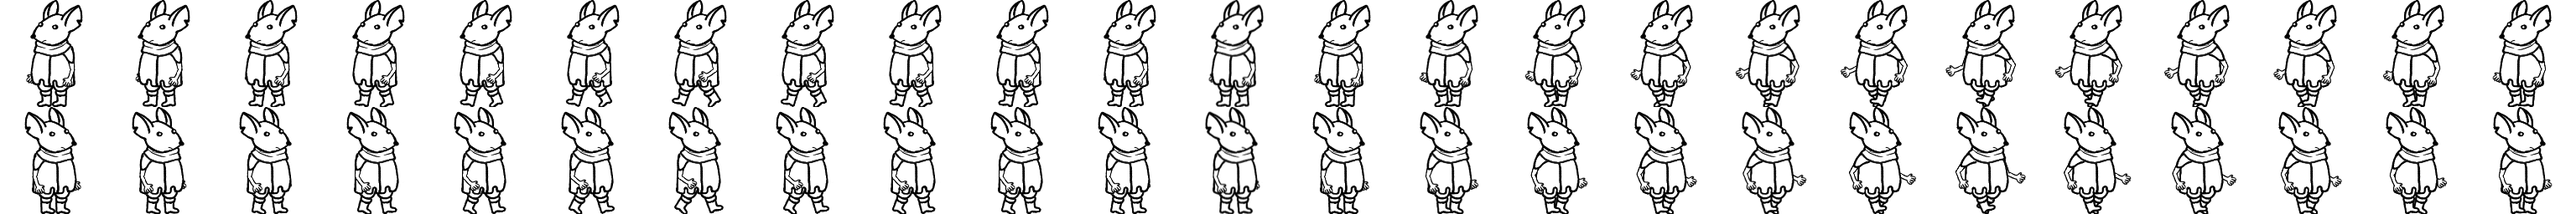
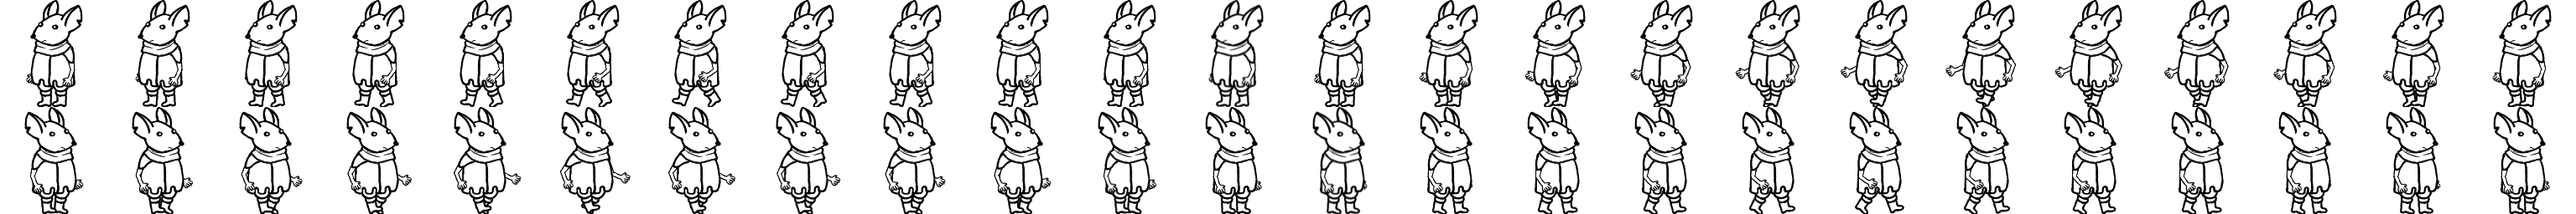
Directional animation is now first row is left and next row is right animation

diff --git a/GameProject/ECS/Systems/AnimationSystem.cpp b/GameProject/ECS/Systems/AnimationSystem.cpp
@@ -53,11 +53,11 @@ void AnimationSystem::update(sf::Time deltaTime)
 
 					SpriteOrientationComponent* orientComp = m_entityContainer->getComponent<SpriteOrientationComponent>(entity, typeName<SpriteOrientationComponent>());
 
-					int directionSign = 0;
+					int row = currentAnim.row;
 					if (orientComp->orientation() == SpriteOrientation::right)
-						directionSign = 1;
+						row++;
 
-					sf::IntRect frame(currentAnim.currentFrame * size.x, directionSign * size.y, size.x, size.y);
+					sf::IntRect frame(currentAnim.currentFrame * size.x, row * size.y, size.x, size.y);
 					spriteComp->getSprite().setTextureRect(frame);
 					currentAnim.elapsedTime = 0;
 				}

diff --git a/GameProject/ECS/Components/AnimationComponent.h b/GameProject/ECS/Components/AnimationComponent.h
@@ -19,11 +19,13 @@ public:
 			ClassMetaInfo<Animation>::registerMember<int>("frameCount", &Animation::frameCount);
 			ClassMetaInfo<Animation>::registerMember<float>("frameTime", &Animation::frameTime);
 			ClassMetaInfo<Animation>::registerMember<bool>("infinite", &Animation::infinite);
+			ClassMetaInfo<Animation>::registerMember<int>("row", &Animation::row);
 		}
 		std::string name;
 		int frameCount;
 		float frameTime;
 		bool infinite;
+		int row;
 
 		float elapsedTime;
 		int currentFrame;
